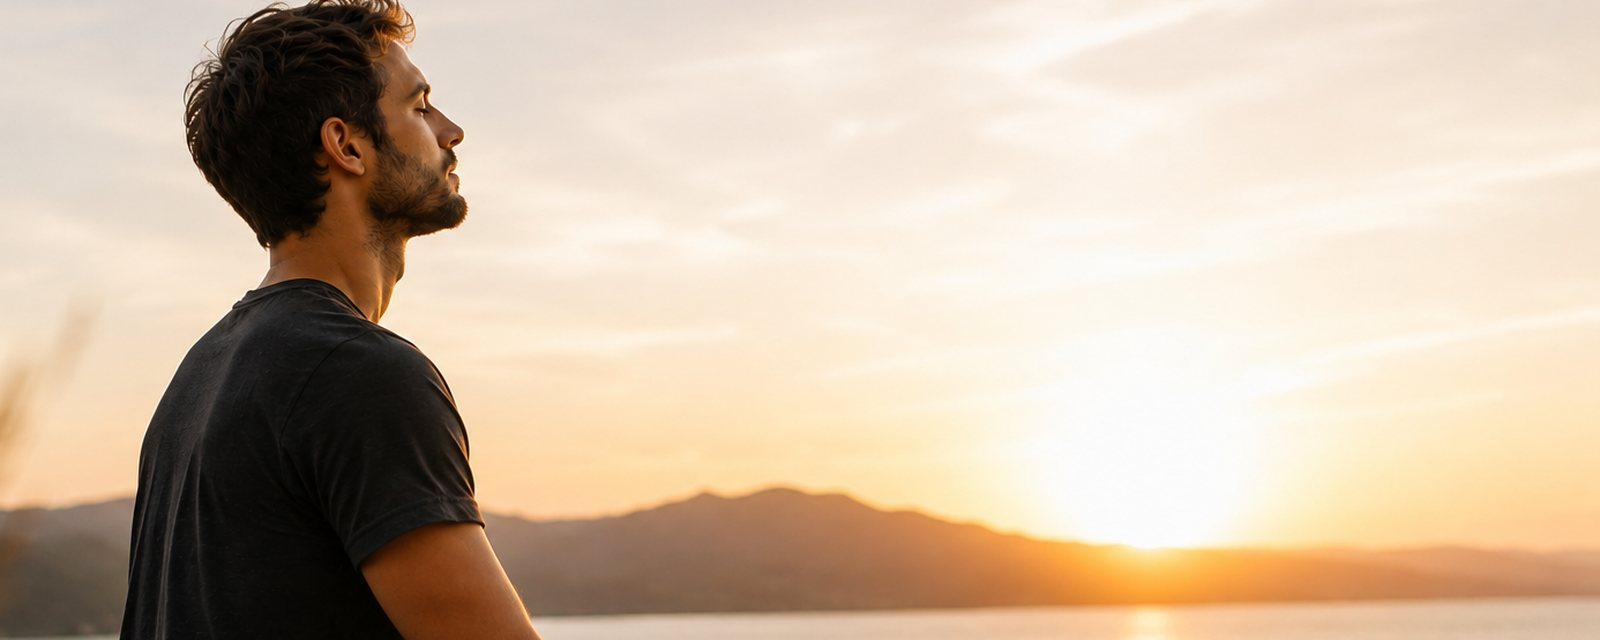
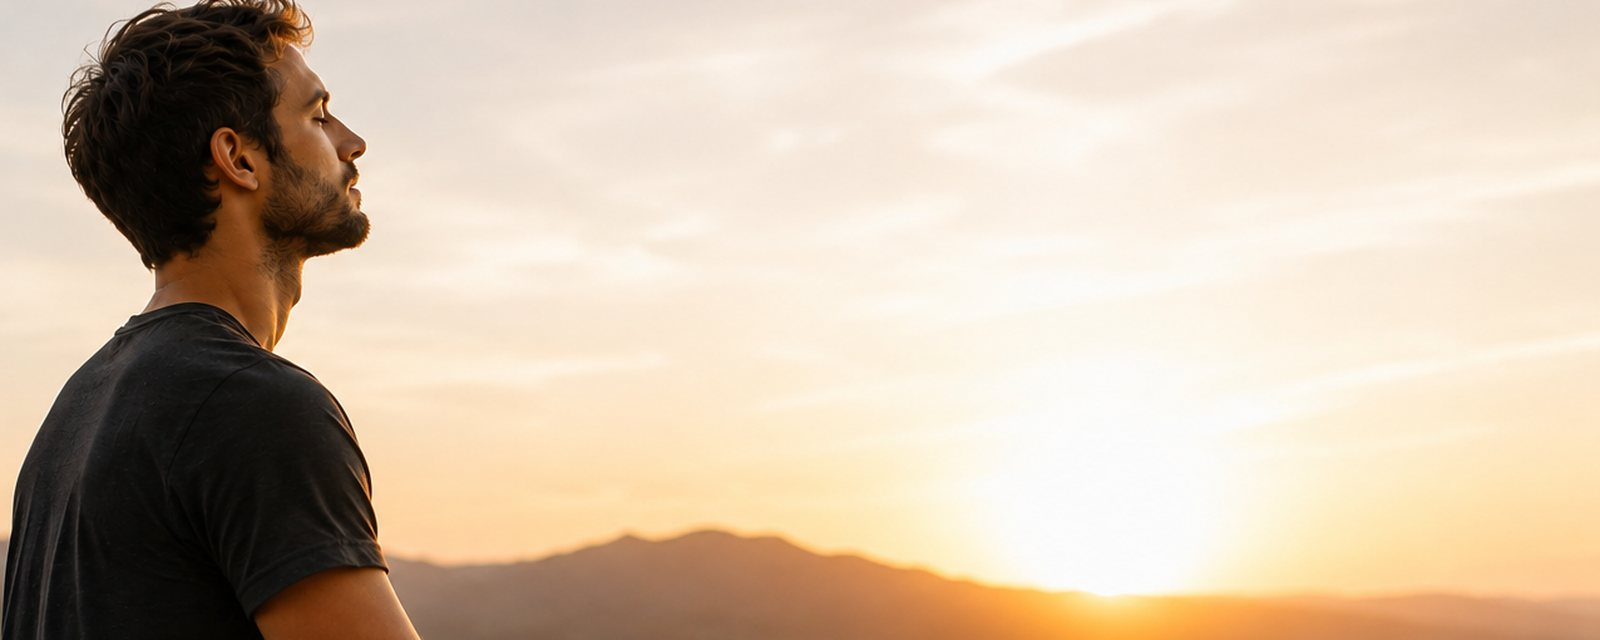
Glava malo ljevije (v=119)

diff --git a/style.css b/style.css
@@ -456,7 +456,7 @@ ul.ls.cols2{display:grid;grid-template-columns:1fr 1fr;gap:12px 34px;margin-bott
 .fw .intro .wrap .pl{max-width:1040px;}
 .fw .bigquote blockquote{max-width:1040px;}
 .fw .quote-band p{max-width:860px;}
-.quote-band{background-image:url('img/zavrsna.jpg?4');background-position:left top;}
+.quote-band{background-image:url('img/zavrsna.jpg?5');background-position:left top;}
 
 /* ---- samadhi v4: jace dizajnerske sekcije ---- */
 .icon-grid .ig{background:#fffdfa;border:1px solid #eee0d0;border-radius:16px;padding:28px 14px 24px;transition:transform .25s, box-shadow .25s;}

diff --git a/blog.html b/blog.html
@@ -7,7 +7,7 @@
 <link rel="preconnect" href="https://fonts.googleapis.com">
 <link rel="preconnect" href="https://fonts.gstatic.com" crossorigin>
 <link href="https://fonts.googleapis.com/css2?family=Lora:ital,wght@0,400;0,500;0,600;0,700;1,400&family=Open+Sans:wght@300;400;500;600;700&display=swap" rel="stylesheet">
-<link rel="stylesheet" href="style.css?v=118">
+<link rel="stylesheet" href="style.css?v=119">
 </head>
 <body class="fw">
 

diff --git a/faq.html b/faq.html
@@ -7,7 +7,7 @@
 <link rel="preconnect" href="https://fonts.googleapis.com">
 <link rel="preconnect" href="https://fonts.gstatic.com" crossorigin>
 <link href="https://fonts.googleapis.com/css2?family=Lora:ital,wght@0,400;0,500;0,600;0,700;1,400&family=Open+Sans:wght@300;400;500;600;700&display=swap" rel="stylesheet">
-<link rel="stylesheet" href="style.css?v=118">
+<link rel="stylesheet" href="style.css?v=119">
 </head>
 <body class="fw">
 

diff --git a/index.html b/index.html
@@ -7,7 +7,7 @@
 <link rel="preconnect" href="https://fonts.googleapis.com">
 <link rel="preconnect" href="https://fonts.gstatic.com" crossorigin>
 <link href="https://fonts.googleapis.com/css2?family=Lora:ital,wght@0,400;0,500;0,600;0,700;1,400&family=Open+Sans:wght@300;400;500;600;700&display=swap" rel="stylesheet">
-<link rel="stylesheet" href="style.css?v=118">
+<link rel="stylesheet" href="style.css?v=119">
 </head>
 <body class="fw">
 

diff --git a/kolacici.html b/kolacici.html
@@ -7,7 +7,7 @@
 <link rel="preconnect" href="https://fonts.googleapis.com">
 <link rel="preconnect" href="https://fonts.gstatic.com" crossorigin>
 <link href="https://fonts.googleapis.com/css2?family=Lora:ital,wght@0,400;0,500;0,600;0,700;1,400&family=Open+Sans:wght@300;400;500;600;700&display=swap" rel="stylesheet">
-<link rel="stylesheet" href="style.css?v=118">
+<link rel="stylesheet" href="style.css?v=119">
 </head>
 <body class="fw">
 

diff --git a/konstelacije.html b/konstelacije.html
@@ -7,7 +7,7 @@
 <link rel="preconnect" href="https://fonts.googleapis.com">
 <link rel="preconnect" href="https://fonts.gstatic.com" crossorigin>
 <link href="https://fonts.googleapis.com/css2?family=Lora:ital,wght@0,400;0,500;0,600;0,700;1,400&family=Open+Sans:wght@300;400;500;600;700&display=swap" rel="stylesheet">
-<link rel="stylesheet" href="style.css?v=118">
+<link rel="stylesheet" href="style.css?v=119">
 </head>
 <body class="fw">
 

diff --git a/kontakt.html b/kontakt.html
@@ -7,7 +7,7 @@
 <link rel="preconnect" href="https://fonts.googleapis.com">
 <link rel="preconnect" href="https://fonts.gstatic.com" crossorigin>
 <link href="https://fonts.googleapis.com/css2?family=Lora:ital,wght@0,400;0,500;0,600;0,700;1,400&family=Open+Sans:wght@300;400;500;600;700&display=swap" rel="stylesheet">
-<link rel="stylesheet" href="style.css?v=118">
+<link rel="stylesheet" href="style.css?v=119">
 </head>
 <body class="fw">
 

diff --git a/omeni.html b/omeni.html
@@ -7,7 +7,7 @@
 <link rel="preconnect" href="https://fonts.googleapis.com">
 <link rel="preconnect" href="https://fonts.gstatic.com" crossorigin>
 <link href="https://fonts.googleapis.com/css2?family=Lora:ital,wght@0,400;0,500;0,600;0,700;1,400&family=Open+Sans:wght@300;400;500;600;700&display=swap" rel="stylesheet">
-<link rel="stylesheet" href="style.css?v=118">
+<link rel="stylesheet" href="style.css?v=119">
 </head>
 <body class="fw">
 

diff --git a/portal.html b/portal.html
@@ -7,7 +7,7 @@
 <link rel="preconnect" href="https://fonts.googleapis.com">
 <link rel="preconnect" href="https://fonts.gstatic.com" crossorigin>
 <link href="https://fonts.googleapis.com/css2?family=Lora:ital,wght@0,400;0,500;0,600;0,700;1,400&family=Open+Sans:wght@300;400;500;600;700&display=swap" rel="stylesheet">
-<link rel="stylesheet" href="style.css?v=118">
+<link rel="stylesheet" href="style.css?v=119">
 </head>
 <body class="fw">
 

diff --git a/post.html b/post.html
@@ -7,7 +7,7 @@
 <link rel="preconnect" href="https://fonts.googleapis.com">
 <link rel="preconnect" href="https://fonts.gstatic.com" crossorigin>
 <link href="https://fonts.googleapis.com/css2?family=Lora:ital,wght@0,400;0,500;0,600;0,700;1,400&family=Open+Sans:wght@300;400;500;600;700&display=swap" rel="stylesheet">
-<link rel="stylesheet" href="style.css?v=118">
+<link rel="stylesheet" href="style.css?v=119">
 </head>
 <body class="fw">
 

diff --git a/privatnost.html b/privatnost.html
@@ -7,7 +7,7 @@
 <link rel="preconnect" href="https://fonts.googleapis.com">
 <link rel="preconnect" href="https://fonts.gstatic.com" crossorigin>
 <link href="https://fonts.googleapis.com/css2?family=Lora:ital,wght@0,400;0,500;0,600;0,700;1,400&family=Open+Sans:wght@300;400;500;600;700&display=swap" rel="stylesheet">
-<link rel="stylesheet" href="style.css?v=118">
+<link rel="stylesheet" href="style.css?v=119">
 </head>
 <body class="fw">
 

diff --git a/programi.html b/programi.html
@@ -7,7 +7,7 @@
 <link rel="preconnect" href="https://fonts.googleapis.com">
 <link rel="preconnect" href="https://fonts.gstatic.com" crossorigin>
 <link href="https://fonts.googleapis.com/css2?family=Lora:ital,wght@0,400;0,500;0,600;0,700;1,400&family=Open+Sans:wght@300;400;500;600;700&display=swap" rel="stylesheet">
-<link rel="stylesheet" href="style.css?v=118">
+<link rel="stylesheet" href="style.css?v=119">
 </head>
 <body class="fw">
 
